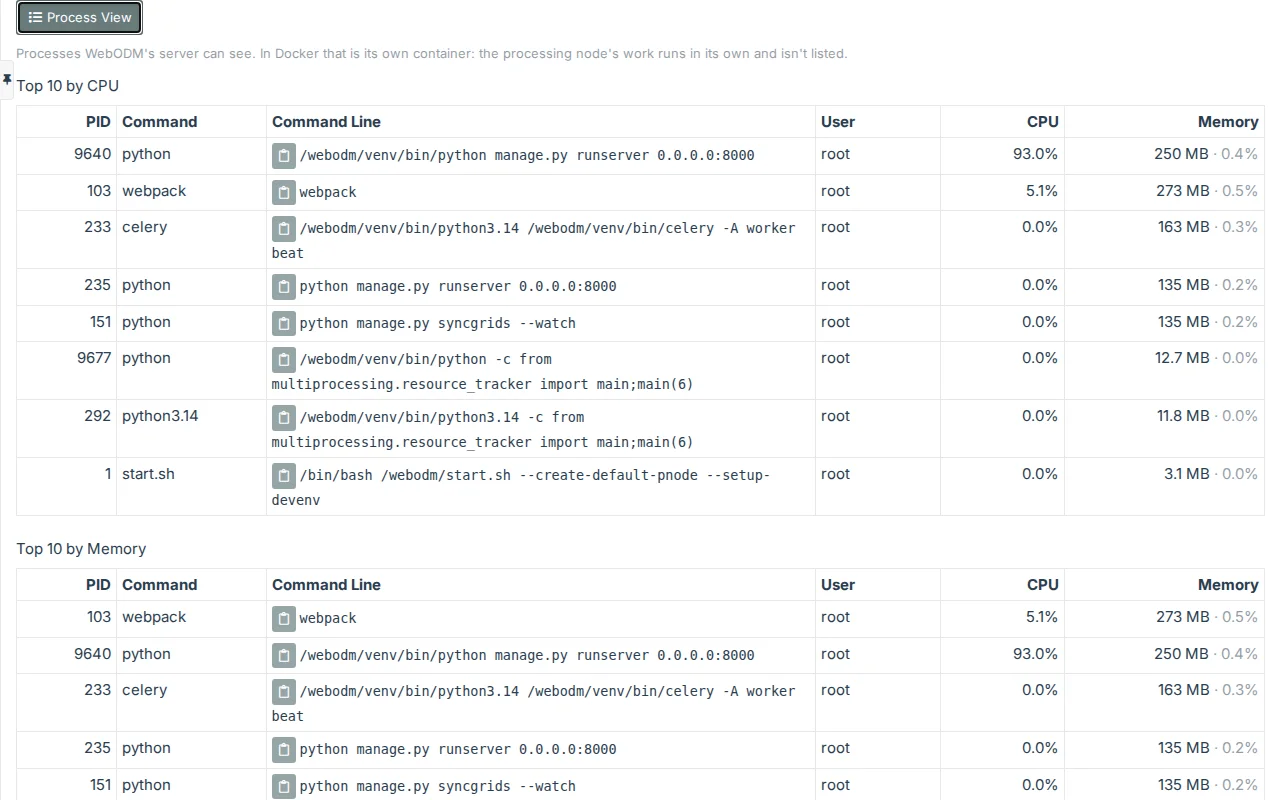
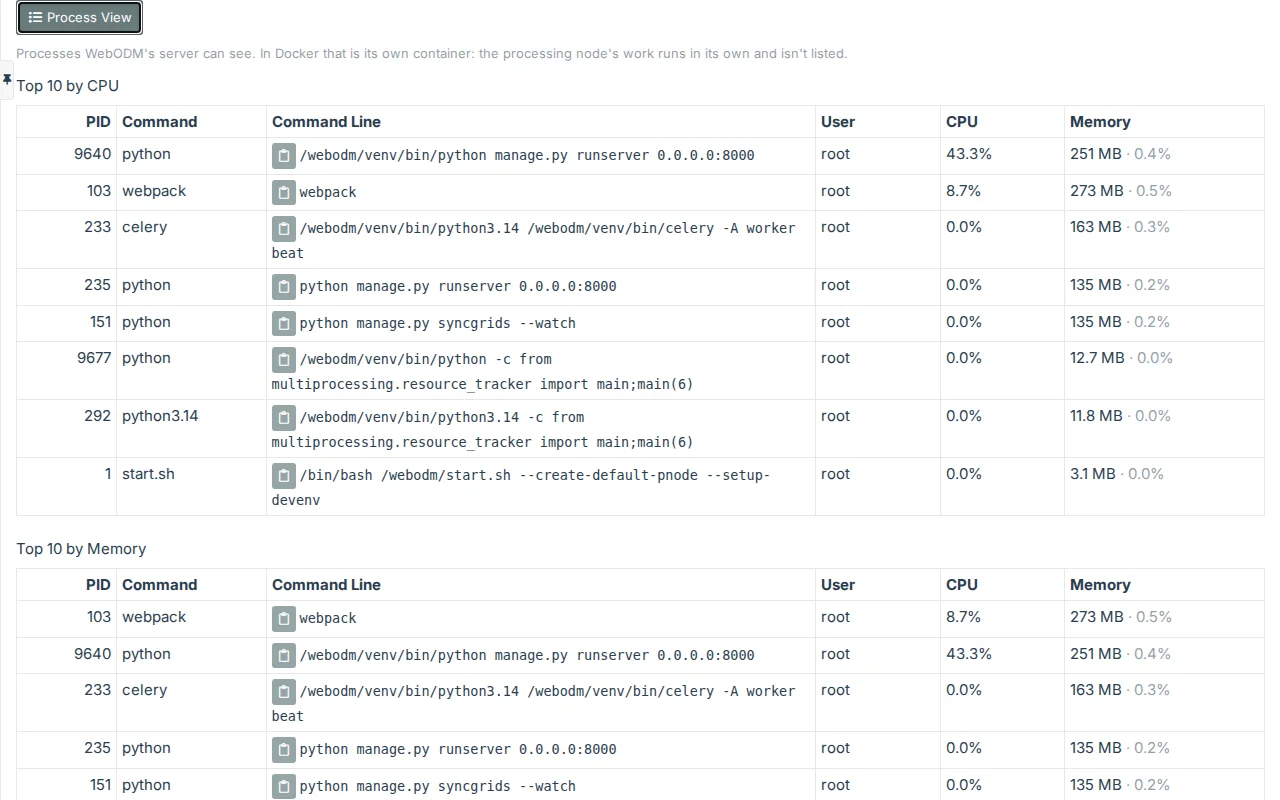
Process View: the CPU and Memory columns left-aligned

diff --git a/tweakui/public/performance_page.js b/tweakui/public/performance_page.js
@@ -487,7 +487,7 @@
         var memory = escapeHtml(formatBytes(p.rss)) + (total ? ' <span class="text-muted">\u00b7 ' + escapeHtml((p.rss / total * 100).toFixed(1)) + "%</span>" : "");
         return '<tr data-pid="' + escapeHtml(p.pid) + '"><td class="tweakui-performance-number">' + escapeHtml(p.pid) + "</td><td>" + escapeHtml(p.name) +
             '</td><td class="tweakui-performance-command-cell">' + command + "</td><td>" + escapeHtml(p.user || "") +
-            '</td><td class="tweakui-performance-number">' + cpu + '</td><td class="tweakui-performance-number">' + memory + "</td></tr>";
+            "</td><td>" + cpu + "</td><td>" + memory + "</td></tr>";
     }
 
     // A Process View table's width and its columns' (widths: each column's in pixels, or null for the starting shares)
@@ -507,7 +507,7 @@
         if (!list) return html + '<p class="text-muted small">' + empty + "</p>";
         return html + '<div class="tweakui-performance-scroll"><table class="table table-condensed table-bordered theme-border tweakui-performance-process-table" data-processes-by="' +
             kind + '" style="' + tableStyle(widths) + '">' + columnsHtml(widths) + "<thead><tr>" + PROCESS_COLUMNS.map(function (c, i) {
-                return "<th" + (i === 0 || i > 3 ? ' class="tweakui-performance-number"' : "") + ">" + c[0] +
+                return "<th" + (i === 0 ? ' class="tweakui-performance-number"' : "") + ">" + c[0] +
                     '<span class="tweakui-performance-resize" role="separator" aria-orientation="vertical" tabindex="0" data-column="' + i +
                     '" aria-label="Resize ' + c[0] + '" title="Drag to resize; double-click for the starting widths"></span></th>';
             }).join("") + "</tr></thead><tbody>" +

diff --git a/tweakui/public/__tests__/performance_page.test.js b/tweakui/public/__tests__/performance_page.test.js
@@ -662,6 +662,11 @@ describe("the Performance page", () => {
         // CPU of one core, of all cores in its title; the command line whole in its title
         expect(cpuRowsShown[0].querySelector("td:nth-child(5) span").title).toBe("31.3% of all 8 cores");
         expect(cpuRowsShown[0].querySelector("code").title).toBe("");
+        // CPU and Memory left-aligned, PID right-aligned
+        expect(Array.from(holder.querySelectorAll("[data-processes-by=cpu] th")).map(th => th.classList.contains("tweakui-performance-number")))
+            .toEqual([true, false, false, false, false, false]);
+        expect(Array.from(cpuRowsShown[0].cells).map(td => td.classList.contains("tweakui-performance-number")))
+            .toEqual([true, false, false, false, false, false]);
         // Copy Command Line in front of the command line
         expect(cpuRowsShown[0].querySelector(".tweakui-performance-command-cell").firstElementChild.getAttribute("data-act")).toBe("copy-command");
         const writeText = jest.fn(() => Promise.resolve());
